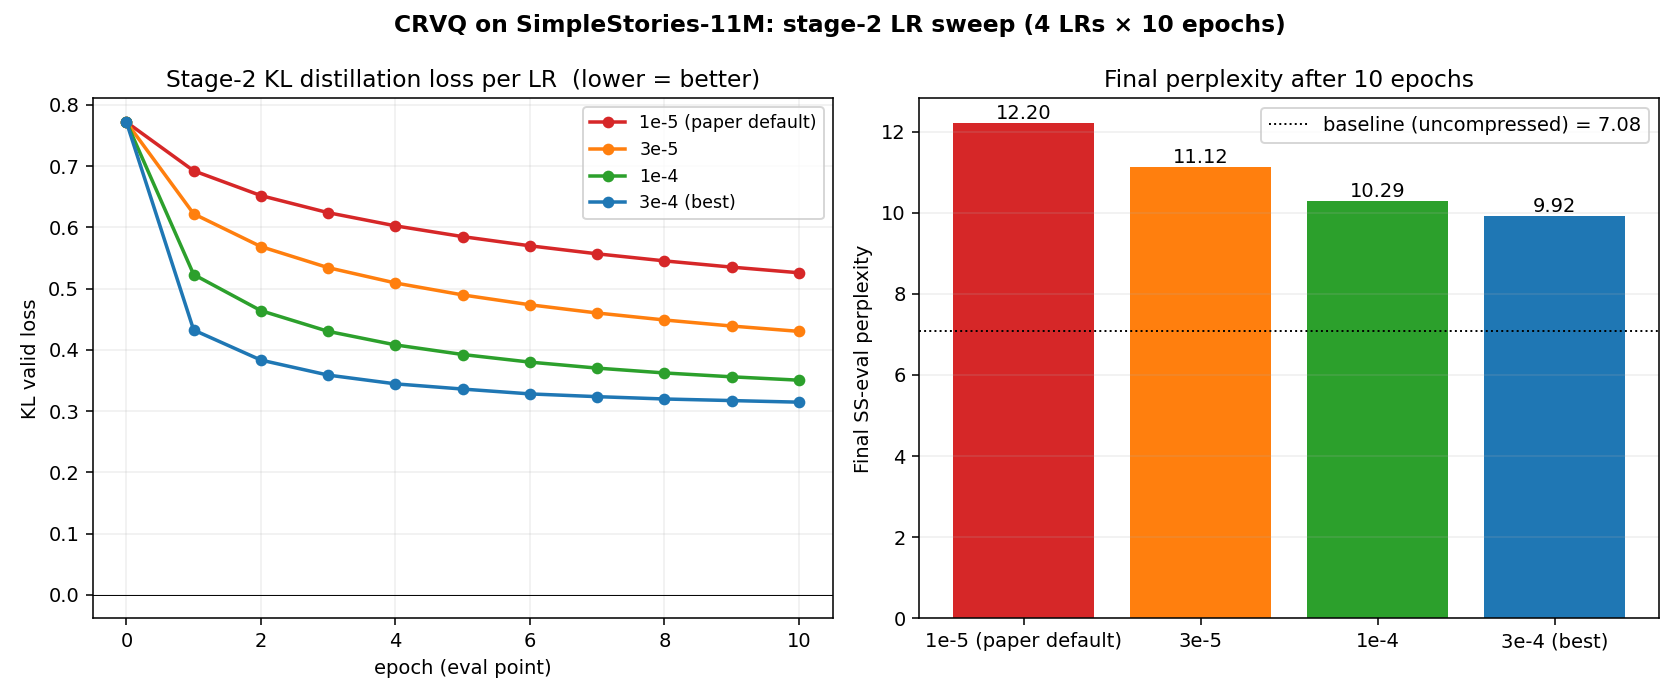
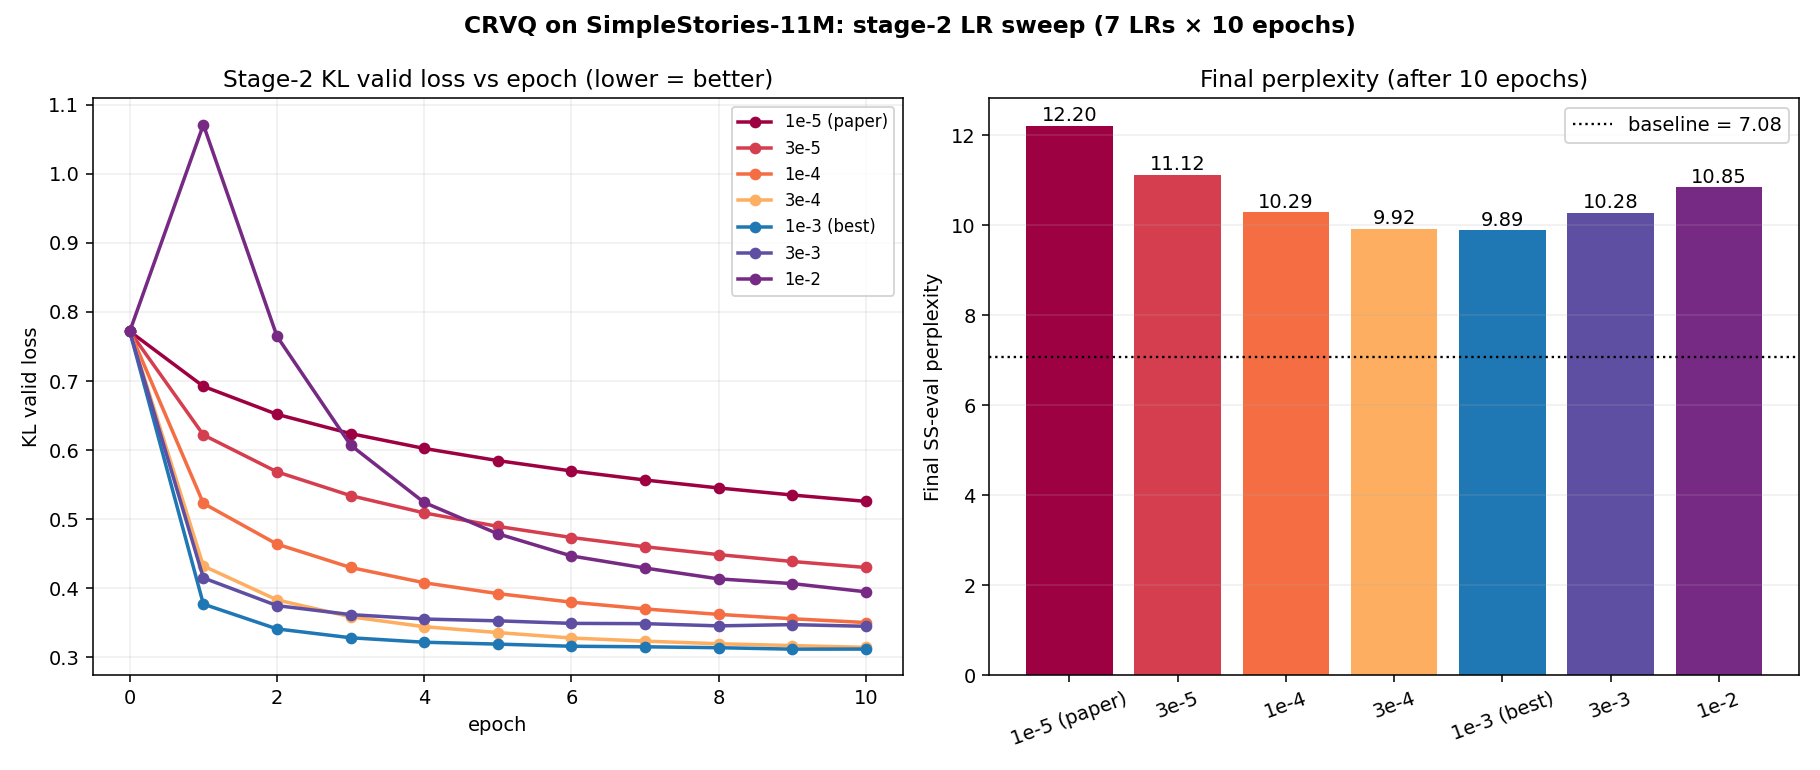
CRVQ-11M LR sweep extension: 7 LRs total, new best lr=1e-3 (ppl 9.89)
Added high-LR runs (1e-3, 3e-3, 1e-2) in parallel. Found the classic U-shape:
sweet spot 3e-4 to 1e-3 (~ppl 9.9), past 3e-3 it rises again. Paper default
1e-5 = 23% worse than optimum on this small-model regime. Plot updated.

diff --git a/crvq_ss11m/plot_lr_sweep.py b/crvq_ss11m/plot_lr_sweep.py
@@ -5,12 +5,15 @@ matplotlib.use("Agg")
 import matplotlib.pyplot as plt
 
 LOG_DIR = "/workspace/projects/CRVQ/runs/lr_sweep_logs"
-TAGS = [("1em5", "1e-5 (paper default)", "#d62728"),
-        ("3em5", "3e-5",                 "#ff7f0e"),
-        ("1em4", "1e-4",                 "#2ca02c"),
-        ("3em4", "3e-4 (best)",          "#1f77b4")]
+TAGS = [("1em5", "1e-5 (paper)", "#9e0142"),
+        ("3em5", "3e-5",         "#d53e4f"),
+        ("1em4", "1e-4",         "#f46d43"),
+        ("3em4", "3e-4",         "#fdae61"),
+        ("1em3", "1e-3 (best)",  "#1f77b4"),
+        ("3em3", "3e-3",         "#5e4fa2"),
+        ("1em2", "1e-2",         "#762a83")]
 
-fig, (a1, a2) = plt.subplots(1, 2, figsize=(12, 5))
+fig, (a1, a2) = plt.subplots(1, 2, figsize=(13, 5.5))
 final_ppls = {}
 for tag, label, col in TAGS:
     path = os.path.join(LOG_DIR, f"{tag}.log")
@@ -23,16 +26,16 @@ for tag, label, col in TAGS:
     a2.bar(label, ppl, color=col)
     a2.text(label, ppl + 0.1, f"{ppl:.2f}", ha="center", fontsize=10)
 
-a1.set_xlabel("epoch (eval point)"); a1.set_ylabel("KL valid loss")
-a1.set_title("Stage-2 KL distillation loss per LR  (lower = better)")
-a1.legend(fontsize=9); a1.grid(True, alpha=.2)
-a1.axhline(0, color="k", lw=.5)
+a1.set_xlabel("epoch"); a1.set_ylabel("KL valid loss")
+a1.set_title("Stage-2 KL valid loss vs epoch (lower = better)")
+a1.legend(fontsize=8.5, loc="upper right"); a1.grid(True, alpha=.2)
 
-a2.axhline(7.08, ls=":", color="k", lw=1, label="baseline (uncompressed) = 7.08")
-a2.set_ylabel("Final SS-eval perplexity"); a2.set_title("Final perplexity after 10 epochs")
-a2.legend(); a2.grid(True, alpha=.2, axis="y")
+a2.axhline(7.08, ls=":", color="k", lw=1.2, label="baseline = 7.08")
+a2.tick_params(axis="x", rotation=20)
+a2.set_ylabel("Final SS-eval perplexity"); a2.set_title("Final perplexity (after 10 epochs)")
+a2.legend(loc="upper right"); a2.grid(True, alpha=.2, axis="y")
 
-fig.suptitle("CRVQ on SimpleStories-11M: stage-2 LR sweep (4 LRs × 10 epochs)", fontweight="bold")
+fig.suptitle("CRVQ on SimpleStories-11M: stage-2 LR sweep (7 LRs × 10 epochs)", fontweight="bold")
 fig.tight_layout(); os.makedirs("/workspace/projects/CRVQ/figures", exist_ok=True)
 fig.savefig("/workspace/projects/CRVQ/figures/lr_sweep.png", dpi=140); plt.close(fig)
 print("wrote /workspace/projects/CRVQ/figures/lr_sweep.png")
